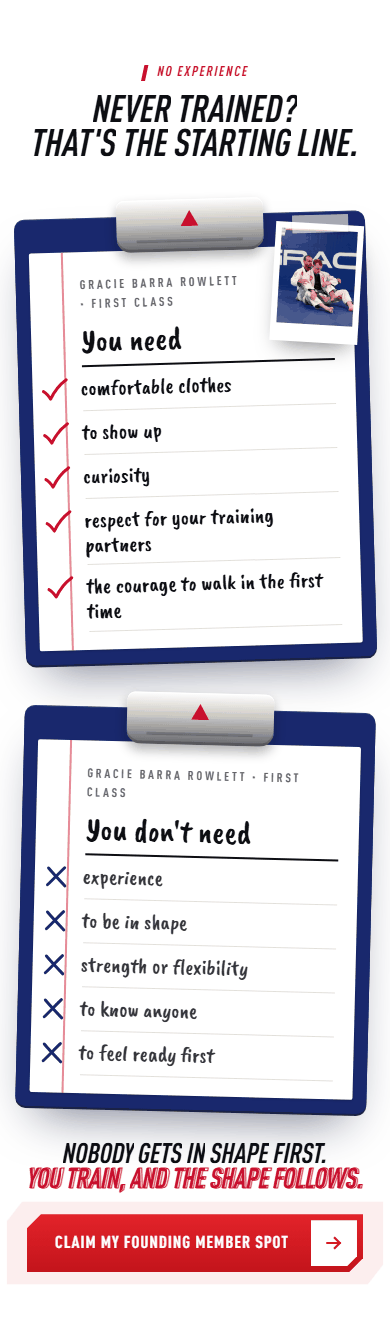
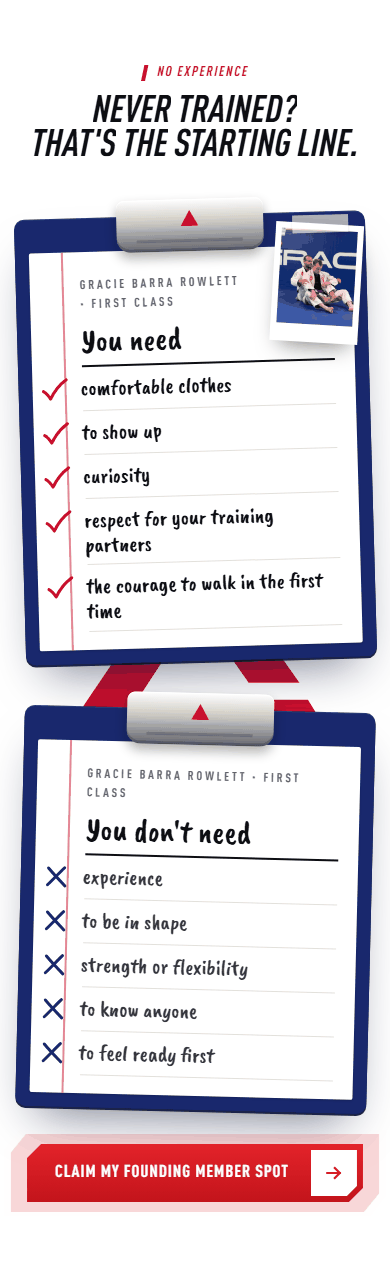
fix(reserve, ready): reserve steps laid out properly (pending on its own line, CTA room, reel no bleed); notebook bigger with the red GB mark behind, statement removed

diff --git a/src/styles/sections.css b/src/styles/sections.css
@@ -2054,12 +2054,37 @@ html.motion .parents__list .rise {
 }
 /* a mesa: as duas pranchetas */
 .ready__desk {
+  position: relative;
+  isolation: isolate;
   display: grid;
   width: 100%;
-  max-width: 1080px;
+  max-width: 1240px;
   gap: 48px;
   padding-top: 18px; /* o prendedor sobe acima da tábua */
   text-align: left;
+}
+/* o triângulo GB vermelho atrás das pranchetas */
+.ready__mark {
+  position: absolute;
+  z-index: -1;
+  left: 50%;
+  top: 50%;
+  width: 170vw;
+  height: auto;
+  color: var(--red);
+  transform: translate(-50%, -46%);
+  pointer-events: none;
+}
+html.motion .ready__mark {
+  opacity: 0;
+  transform: translate(-50%, -40%) scale(0.92);
+  transition:
+    opacity 0.8s var(--ease),
+    transform 1.2s var(--ease);
+}
+html.motion .ready__desk[data-in] .ready__mark {
+  opacity: 1;
+  transform: translate(-50%, -46%);
 }
 .clip {
   --tilt: -1.6deg;
@@ -2281,12 +2306,6 @@ html.motion .ready__desk[data-in] .clip {
   justify-items: center;
   gap: 20px;
 }
-.ready__statement {
-  max-width: 18em;
-  font-style: italic;
-  font-size: clamp(1.75rem, 6.4vw, 2.75rem);
-  letter-spacing: -0.01em;
-}
 @media (min-width: 860px) {
   .ready__desk {
     grid-template-columns: repeat(2, minmax(0, 1fr));
@@ -2312,24 +2331,41 @@ html.motion .ready__desk[data-in] .clip {
   .ready__title {
     font-size: clamp(2.6rem, min(calc(var(--u) * 4), 8svh), 4.6rem);
   }
+  .clip {
+    padding: 40px 18px 18px;
+  }
   .clip__paper {
-    padding: 20px 22px 14px 52px;
+    padding: 26px 30px 20px 64px;
+  }
+  .clip__paper::before {
+    left: 42px;
+  }
+  .clip__mark {
+    width: 34px;
+    height: 29px;
+    margin-left: -52px;
   }
   .clip__title {
-    font-size: clamp(2rem, min(2.6vw, 5svh), 2.6rem);
+    font-size: clamp(2.4rem, min(3.2vw, 6svh), 3.4rem);
   }
   .clip__list li {
     min-height: 0;
-    padding: clamp(5px, 0.9svh, 9px) 0 clamp(4px, 0.7svh, 7px);
-    font-size: clamp(1.25rem, min(1.6vw, 3.2svh), 1.6rem);
+    padding: clamp(6px, 1.2svh, 12px) 0 clamp(5px, 1svh, 10px);
+    font-size: clamp(1.45rem, min(2vw, 3.8svh), 2rem);
+  }
+  .clip__clamp {
+    width: min(42%, 200px);
+    height: 58px;
+    top: -20px;
   }
   .ready__close {
     grid-auto-flow: row;
     gap: clamp(14px, 2.4svh, 22px);
   }
-  .ready__statement {
-    font-size: clamp(1.9rem, min(calc(var(--u) * 3), 5.4svh), 3.2rem);
-    max-width: none;
+  /* desktop: o triângulo do tamanho da mesa, só atrás das pranchetas */
+  .ready__mark {
+    width: auto;
+    height: calc(100% + 40px);
   }
 }
 
@@ -2436,7 +2472,7 @@ html.motion .ready__desk[data-in] .clip {
   position: relative;
   isolation: isolate;
   display: block;
-  height: 1em;
+  height: 1.4em;
 }
 .how__reel > span::before {
   content: attr(data-n);
@@ -2490,8 +2526,12 @@ html.motion .ready__desk[data-in] .clip {
   color: var(--ink-2);
   text-wrap: pretty;
 }
-.how__step .how__cta {
-  margin-top: 8px;
+.how__pend {
+  margin-top: -2px;
+}
+.how__step .how__cta,
+.how__still .how__cta {
+  margin-top: 20px;
 }
 .how__meter {
   display: grid;

diff --git a/src/components/sections/Ready.tsx b/src/components/sections/Ready.tsx
@@ -9,10 +9,11 @@
    botão continuam na display. A caneta: quando as pranchetas entram,
    cada item ganha a marca desenhada em sequência — ✓ vermelho no que
    você precisa, ✗ marinho no que não precisa. A foto do Andre fica
-   presa como polaroid na primeira prancheta.
+   presa como polaroid na primeira prancheta. O triângulo GB vermelho,
+   grande, fica atrás das pranchetas para dar contraste.
 
    Tudo centralizado e, no desktop, numa tela só: cabeçalho, as duas
-   pranchetas, a frase e o botão. Reduced motion: as marcas já nascem
+   pranchetas e o botão. Reduced motion: as marcas já nascem
    desenhadas e as pranchetas já pousadas.
    ════════════════════════════════════════════════════════════════════ */
 
@@ -22,6 +23,7 @@ import { useInView } from '@/motion/inview'
 import { Cta } from '../ui/Cta'
 import { Eyebrow } from '../ui/Eyebrow'
 import { Lines } from '../ui/Lines'
+import { LogoMark } from '../ui/Icons'
 import { Pic } from '../ui/Pic'
 
 /* O ✓ à mão: um traço só, a subida mais longa que a descida. */
@@ -74,6 +76,8 @@ export function Ready() {
         </div>
 
         <div ref={desk} className="ready__desk">
+          {/* o triângulo GB vermelho, grande, atrás das pranchetas: o contraste da mesa */}
+          <LogoMark className="ready__mark" />
           <Clipboard kind="need" title={ready.needLabel} items={ready.need}>
             <figure className="clip__polaroid">
               <span className="clip__tape" aria-hidden="true" />
@@ -84,7 +88,6 @@ export function Ready() {
         </div>
 
         <div className="ready__close">
-          <Lines as="p" className="d ready__statement" parts={ready.statement} />
           <Cta origin="faq" who="me" size="block">
             {ready.cta}
           </Cta>

diff --git a/src/data/site.ts b/src/data/site.ts
@@ -398,7 +398,6 @@ export const ready = {
   need: ['comfortable clothes', 'to show up', 'curiosity', 'respect for your training partners', 'the courage to walk in the first time'],
   dontLabel: "You don't need",
   dont: ['experience', 'to be in shape', 'strength or flexibility', 'to know anyone', 'to feel ready first'],
-  statement: [{ text: 'Nobody gets in shape first.' }, { text: 'You train, and the shape follows.', accent: true, br: true }],
   photoAlt: 'Andre Carepa sitting on the mat with a training partner, mid-conversation, in front of the Gracie Barra wall',
   cta: 'Claim my Founding Member spot',
 }
@@ -409,7 +408,7 @@ export const reserve = {
   title: [{ text: 'How to reserve your spot.' }],
   steps: [
     { n: '01', title: 'Pre-register.', body: "Pick who's training and which class. About a minute." },
-    { n: '02', title: 'We confirm your spot.', body: 'By', pending: 'Phone call, SMS or e-mail, and how soon' },
+    { n: '02', title: 'We confirm your spot.', body: 'We reach out to confirm your spot and answer any question before the doors open.', pending: 'Confirmation channel (call, SMS or e-mail) and how soon' },
     {
       n: '03',
       title: 'Doors open.',

diff --git a/src/components/sections/Reserve.tsx b/src/components/sections/Reserve.tsx
@@ -68,16 +68,16 @@ export function Reserve() {
     )
   }, [step, live])
 
+  /* o texto do passo e, na linha de baixo (nunca colado na frase), a pendência */
   const body = (s: (typeof steps)[number]) => (
-    <p className="how__b">
-      {s.body}
+    <>
+      <p className="how__b">{s.body}</p>
       {'pending' in s && s.pending ? (
-        <>
-          {' '}
+        <p className="how__pend">
           <Pending>{s.pending}</Pending>
-        </>
+        </p>
       ) : null}
-    </p>
+    </>
   )
 
   return (
@@ -103,7 +103,8 @@ export function Reserve() {
         {/* com movimento: uma linha ancorada, um passo por vez */}
         <div className="shell how__row">
           <p className="how__num d" aria-hidden="true">
-            <span className="how__reel" style={{ transform: `translateY(${(-step * 100) / total}%)` }}>
+            {/* cada número ocupa 1,4em de rolo e a janela mostra 1em: o seguinte nunca aparece */}
+            <span className="how__reel" style={{ transform: `translateY(${-step * 1.4}em)` }}>
               {steps.map((s) => (
                 <span key={s.n} data-n={s.n} />
               ))}

diff --git a/src/components/ui/Icons.tsx b/src/components/ui/Icons.tsx
@@ -89,6 +89,16 @@ export const Play = ({ className }: P) => (
   </svg>
 )
 
+/** O triângulo GB cheio (o "G" do selo), na cor do texto. */
+export const LogoMark = ({ className }: P) => (
+  <svg viewBox="0 0 1019 763" className={className} aria-hidden="true" focusable="false">
+    <path
+      d="M837.405 483.729H556.004L484.971 592.954H766.372L793.692 650.297H233.623L515.024 218.858L665.286 434.578H812.816L515.024 14.061L15.0596 754.061H1004.06L837.405 483.729Z"
+      fill="currentColor"
+    />
+  </svg>
+)
+
 /** O selo GB em contorno (pattern, letreiro do footer). viewBox do logo-outline.svg. */
 export const LogoOutline = ({ className }: P) => (
   <svg viewBox="0 0 1019 763" className={className} aria-hidden="true" focusable="false">

diff --git a/public/memory/design-decisions.md b/public/memory/design-decisions.md
@@ -124,3 +124,5 @@ A tabela viva é a §20 do `prd-GBR-001.md` (23 itens). Resumo do que trava o mo
 - **Sem experiência vira a caderneta (pedido do Adryan, modelo: pranchetas da OCJ v3):** tudo centralizado e, no desktop, numa tela só (100svh) — cabeçalho, duas pranchetas lado a lado, e a frase "Nobody gets in shape first…" com o botão logo abaixo, no mesmo bloco (antes ficavam soltos). Tábua marinho GB, prendedor de metal com rebite em triângulo vermelho, papel pautado com margem vermelha, lista em letra à mão (Caveat Brush, OFL, subconjunto de 40 KB em `public/fonts/hand`, usada SÓ aqui — exceção registrada ao preset §3, que previa só Permanent Marker). A caneta desenha ✓ vermelho / ✗ marinho em sequência quando a mesa entra; as pranchetas caem na mesa. A foto do Andre virou polaroid com fita presa na primeira prancheta.
 - **Horários em vermelho (Adryan):** o cabeçalho do quadro e a aba ativa do celular passam de marinho para o vermelho GB; hoje vira a célula em `--red-deep` com régua branca no pé; datas em branco cheio (5,9:1).
 - **Seção do Coach removida (Adryan, 9 out 2026):** saem o componente, o bloco do `site.ts`, o CSS, a foto `coach` e o link "Who teaches" do rodapé. O Andre continua nomeado no hero (lead), na placa "The official curriculum, taught by someone you can meet" e na caderneta (polaroid). As pendências §20 #8 (bio, faixa, linhagem) deixam de aparecer na página; se o cliente mandar a bio confirmada, a seção pode voltar depois de Programas.
+- **Caderneta, ajuste (Adryan):** sai a frase "Nobody gets in shape first / You train, and the shape follows."; as pranchetas crescem (mesa até 1240px, letra da lista até 2rem); o triângulo GB vermelho cheio (`LogoMark`), grande, fica atrás das pranchetas para dar contraste ao marinho e ao papel. O botão continua logo abaixo.
+- **Como reservar, diagramação (Adryan):** a pendência sai da frase e vai para uma linha própria; o botão do último passo ganha 20px de respiro; o rolo de números passa a ter 1,4em por número com janela de 1em (o "02" vazava embaixo do "01"); o passo 2 deixa de ler "By [pendência]" e vira uma frase inteira com a pendência embaixo.
